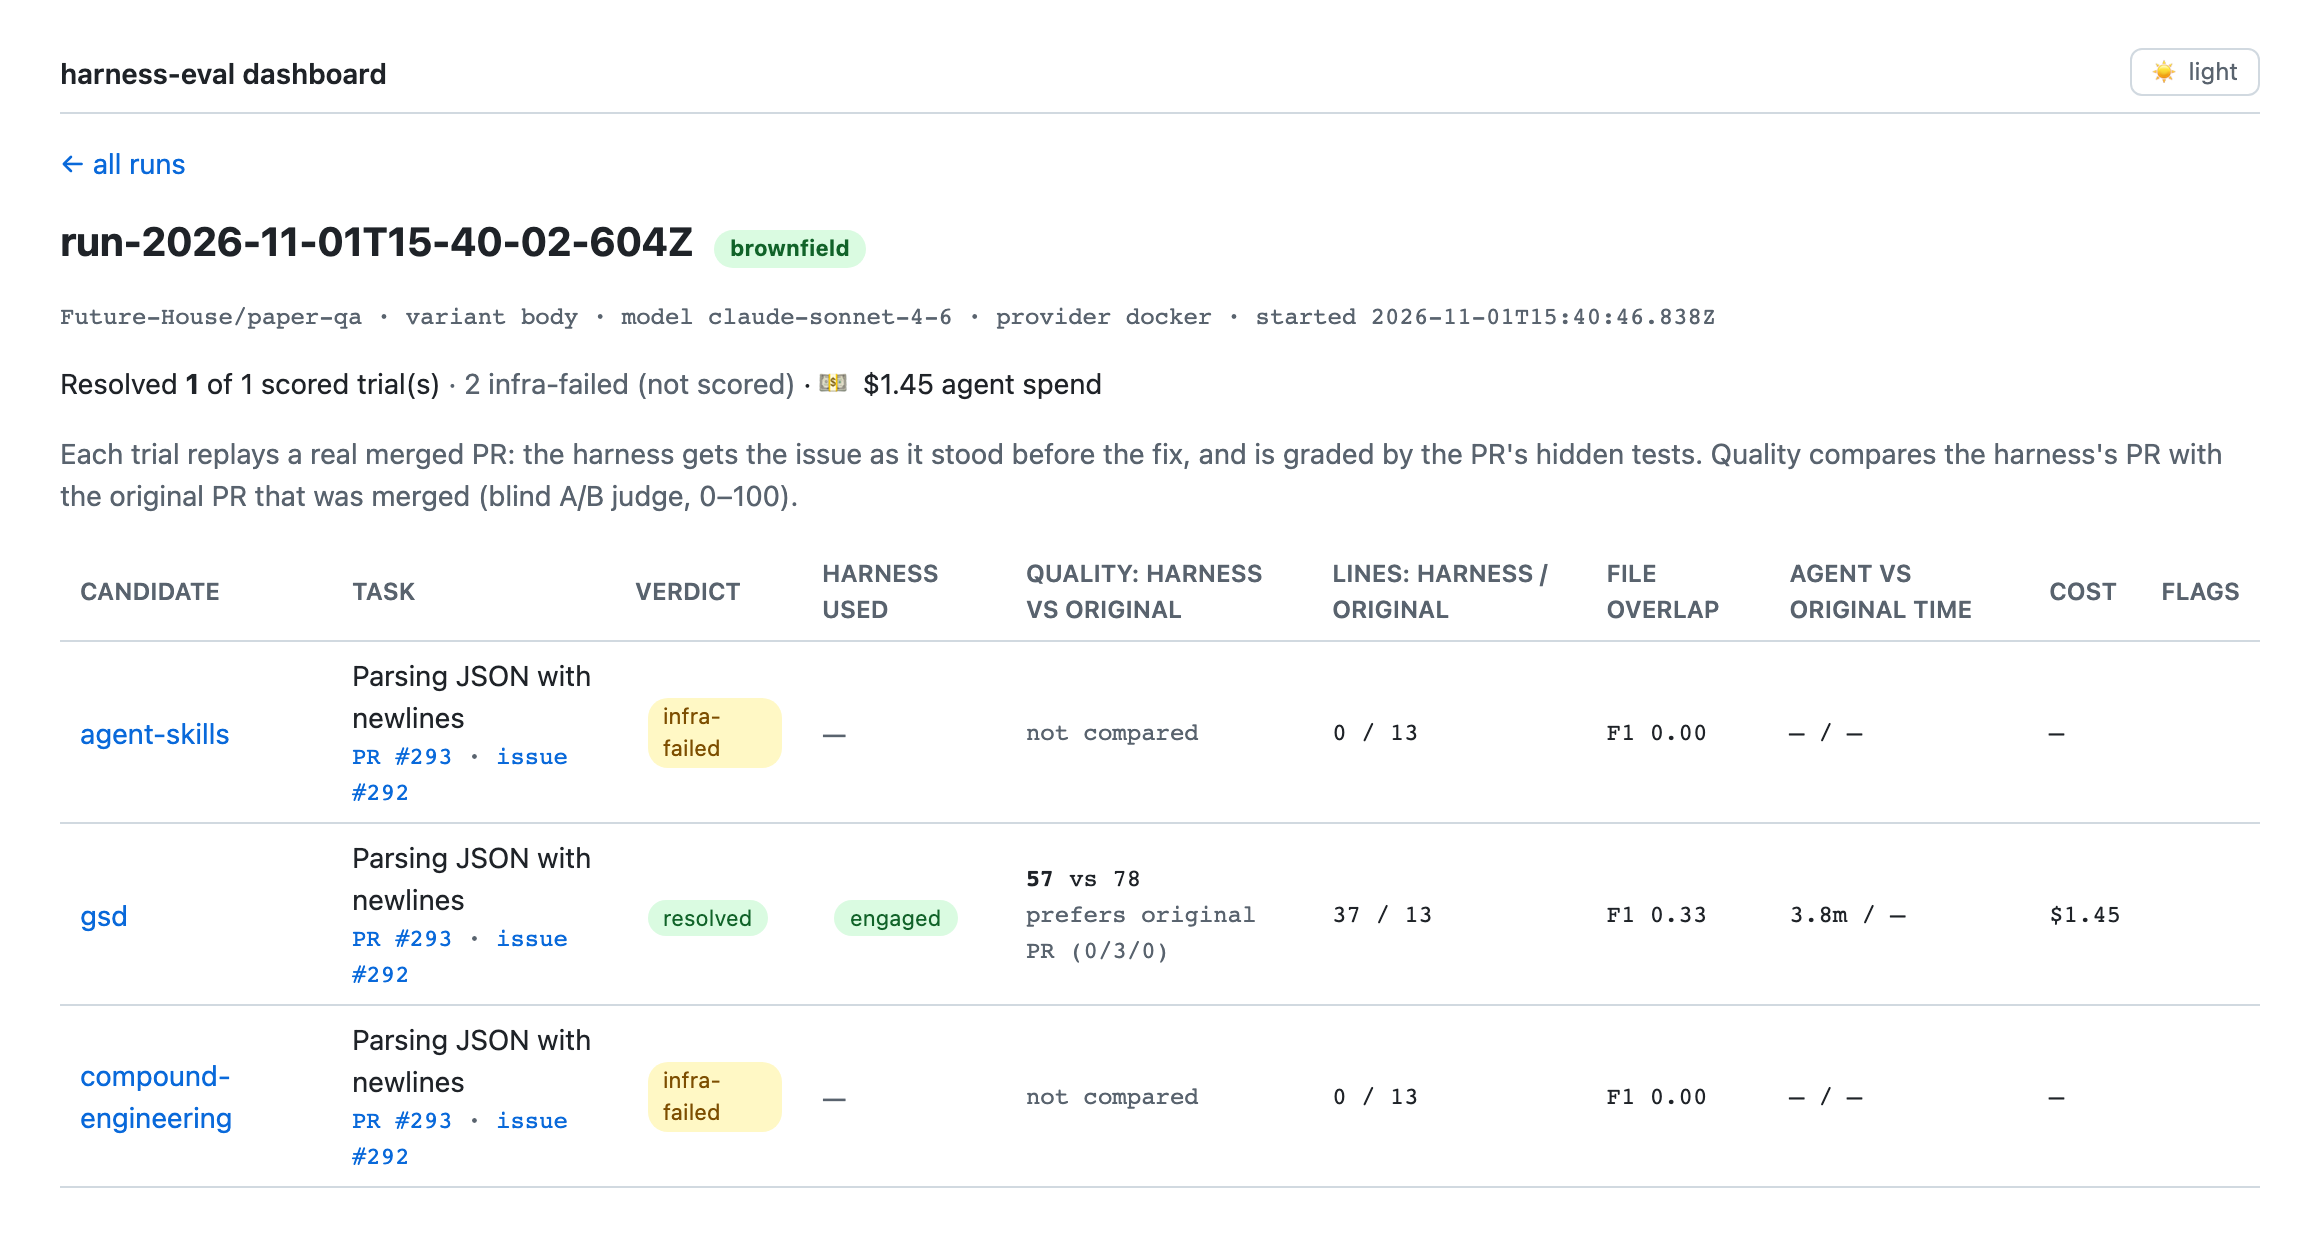
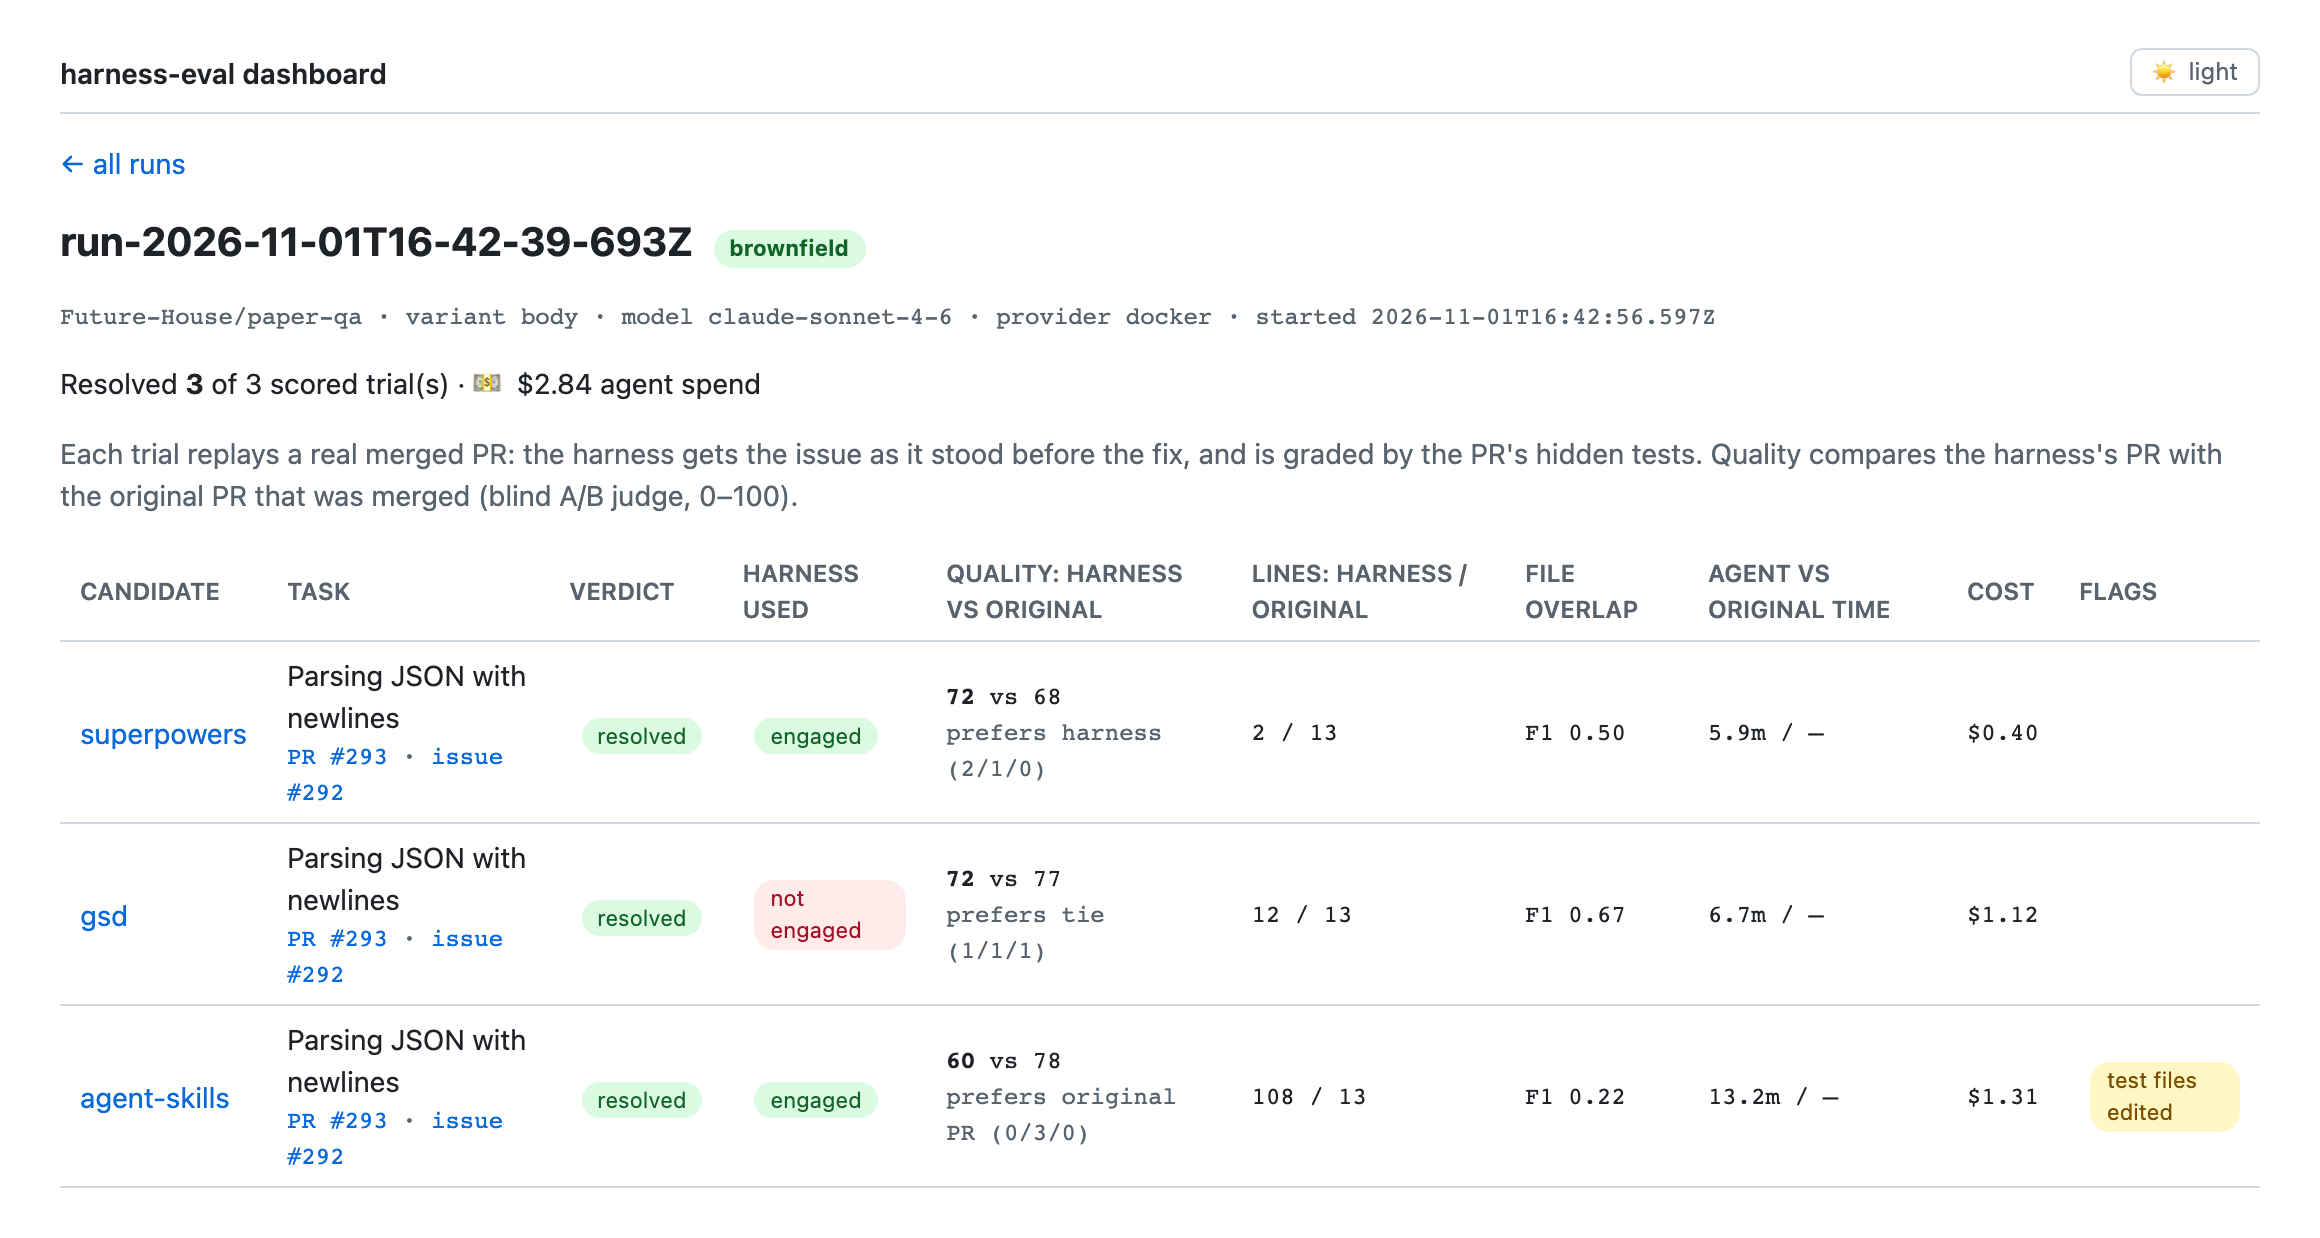
Site: show a newer brownfield run and fit the captions to the shots
The Superpowers trial caption compared it to a run where it never used
its skills. It now says so.

diff --git a/pages/index.html b/pages/index.html
@@ -129,7 +129,7 @@ footer { margin-top: 56px; padding-top: 18px; border-top: 1px solid #21262d; col
 			<figcaption class="cap">
 				<span class="step">Stage 2 · Launch &amp; monitor</span>
 				<h3>Watch runs execute live</h3>
-				<p>Launched runs stream their status here — provisioning → installing → building → grading — with a spinner, running cost, and a Cancel that tears down the in-flight sandbox. Historical runs from disk sit alongside the live ones; completed runs link straight to their scorecard.</p>
+				<p>Launched runs stream their status here — provisioning → installing → building → grading — with a spinner, running cost, and a Cancel that tears down the in-flight sandbox. Historical runs from disk sit alongside the live ones, and completed runs link straight to their scorecard. The list filters by app or PRD: this view shows every run of the barber-shop target.</p>
 			</figcaption>
 		</figure>
 
@@ -218,11 +218,11 @@ footer { margin-top: 56px; padding-top: 18px; border-top: 1px solid #21262d; col
 	<div class="shots">
 
 		<figure class="shot">
-			<a class="frame" href="./assets/gallery-10-brownfield-run.png" target="_blank" rel="noopener"><img src="./assets/gallery-10-brownfield-run.png" alt="Brownfield run view: three frameworks on one paper-qa task, with hidden-test verdict, whether the framework engaged, quality against the original PR, diff size, file overlap, agent time and cost; two trials are marked as infrastructure failures and not scored" loading="lazy" /></a>
+			<a class="frame" href="./assets/gallery-10-brownfield-run.png" target="_blank" rel="noopener"><img src="./assets/gallery-10-brownfield-run.png" alt="Brownfield run view: three frameworks on one paper-qa task, all resolved, with whether each framework engaged, quality against the original PR, diff size, file overlap, agent time and cost; GSD is marked not engaged and agent-skills is flagged for editing test files" loading="lazy" /></a>
 			<figcaption class="cap">
 				<span class="step">Brownfield · Run</span>
 				<h3>Resolved, engaged, and better than the original?</h3>
-				<p>One row per framework and task, with each signal kept separate rather than blended into a composite. In this run GSD engaged and passed the hidden tests, but the judge still preferred the original PR, 78 to 57: passing the tests and writing the better PR are different questions. The other two trials hit infrastructure failures, so they're reported as not scored rather than counted as losses.</p>
+				<p>One row per framework and task, with each signal kept separate rather than blended into a composite. All three frameworks passed the hidden tests on this task, so the other columns tell them apart. <code>superpowers</code> made a 2-line fix, against 13 lines in the original PR, and edged it 72 to 68. <code>agent-skills</code> wrote 108 lines, edited a test file, and lost 60 to 78, with every judge sample preferring the original. <code>gsd</code> scored 72 to 77 on a split vote, but its <em>not engaged</em> badge means the framework itself did little, so that score says little about GSD.</p>
 			</figcaption>
 		</figure>
 
@@ -231,7 +231,7 @@ footer { margin-top: 56px; padding-top: 18px; border-top: 1px solid #21262d; col
 			<figcaption class="cap">
 				<span class="step">Brownfield · Trial</span>
 				<h3>Harness PR vs. original PR, side by side</h3>
-				<p>Everything behind one verdict: which framework skills actually fired, the hidden test result, the judge's score and note for each criterion, both diffs, and the audit. Here Superpowers fixed a JSON parsing bug with a one-parameter change and scored 93 to the original PR's 72, which also carried an unrelated version bump. It edited a test file, which was reverted before grading and flagged. One trial says little: an earlier run of the same framework on the same task also resolved it, but the judge preferred the original PR, 75 to 68.</p>
+				<p>Everything behind one verdict: which framework skills actually fired, the hidden test result, the judge's score and note for each criterion, both diffs, and the audit. Here Superpowers fixed a JSON parsing bug with a one-parameter change and scored 93 to the original PR's 72, which also carried an unrelated version bump. It edited a test file, which was reverted before grading and flagged. One trial says little: Superpowers has resolved this task in all three scored runs so far, but it scored 93 to 72 here, 72 to 68 in the run above, and 68 to 75 in a run where it didn't engage.</p>
 			</figcaption>
 		</figure>
 
